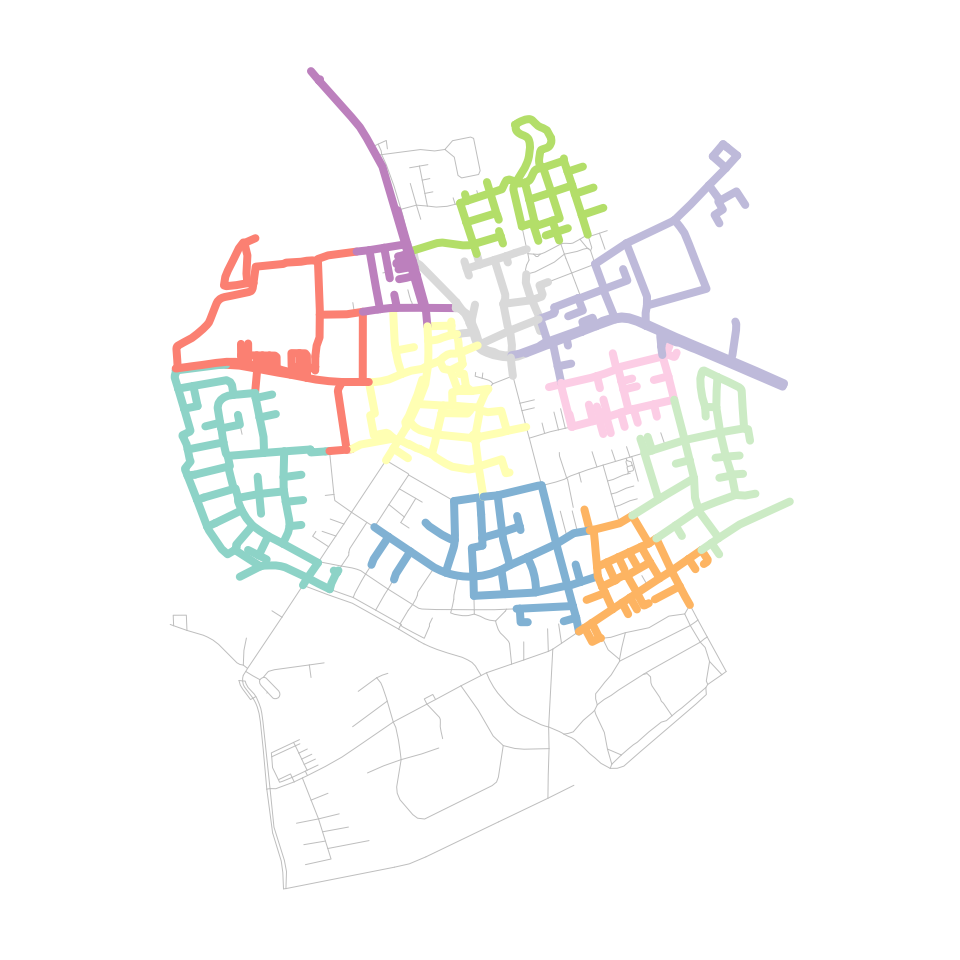
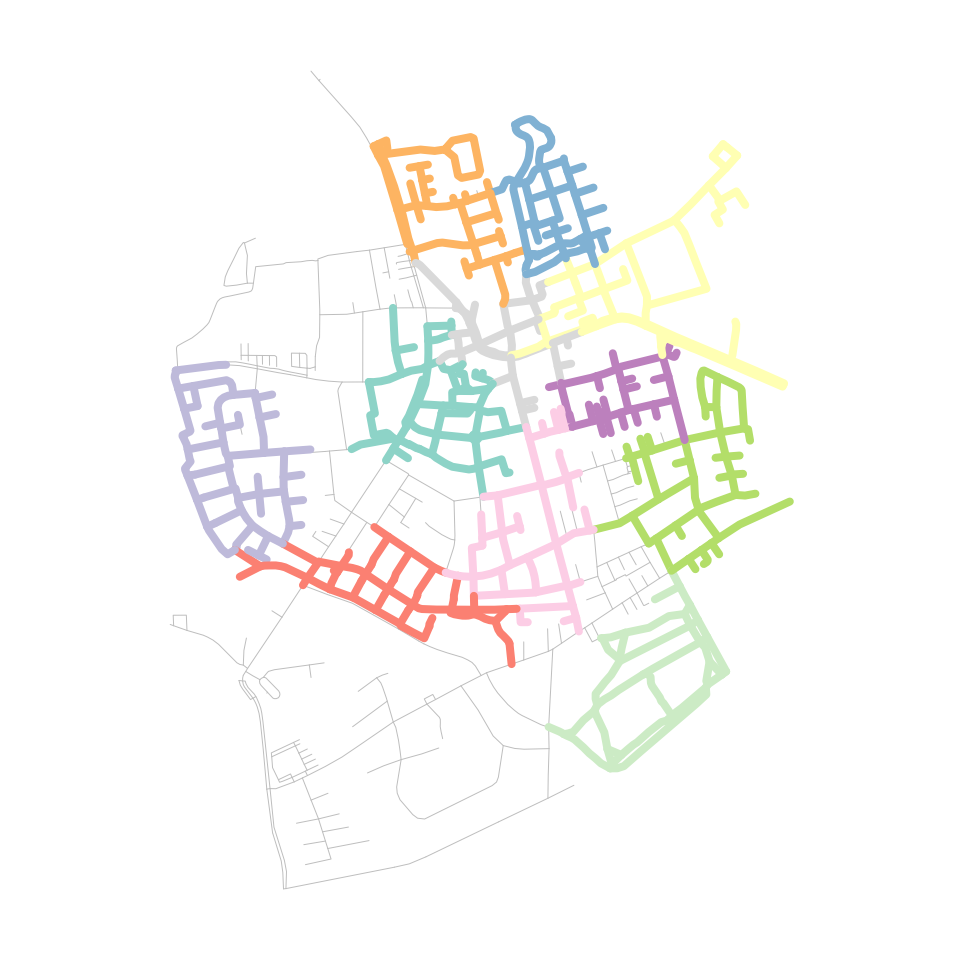
Built site for sfnetworks: 0.6.2@d3374b5

Changed region(s): [[0.1562, 0.125, 0.8438, 0.8125], [0.3438, 0.0938, 0.375, 0.125], [0.3125, 0.0625, 0.3438, 0.0938]]

diff --git a/articles/sfn02_preprocess_clean.html b/articles/sfn02_preprocess_clean.html
@@ -461,12 +461,12 @@ different combination techniques when simplifying the network.</p>
 <span><span class="co">#&gt; # Bounding box:  xmin: 0 ymin: -1 xmax: 7 ymax: 3</span></span>
 <span><span class="co">#&gt;    from    to              x  flow type    foo bar  </span></span>
 <span><span class="co">#&gt;   &lt;int&gt; &lt;int&gt;   &lt;LINESTRING&gt; &lt;int&gt; &lt;chr&gt; &lt;int&gt; &lt;chr&gt;</span></span>
-<span><span class="co">#&gt; 1    10     9 (6 1.2, 5.8 1)     5 path      6 w    </span></span>
-<span><span class="co">#&gt; 2    11    10 (6.2 1, 6 1.2)     5 path      7 g    </span></span>
-<span><span class="co">#&gt; 3     9    12 (5.8 1, 6 0.8)     7 path     14 n    </span></span>
-<span><span class="co">#&gt; 4    12    11 (6 0.8, 6.2 1)     6 path     10 v    </span></span>
-<span><span class="co">#&gt; 5    11    15   (6.2 1, 7 1)     8 path      9 o    </span></span>
-<span><span class="co">#&gt; 6    10    13   (6 1.2, 6 2)     8 path     12 q    </span></span>
+<span><span class="co">#&gt; 1    10     9 (6 1.2, 5.8 1)     7 path      9 z    </span></span>
+<span><span class="co">#&gt; 2    11    10 (6.2 1, 6 1.2)     7 path     10 j    </span></span>
+<span><span class="co">#&gt; 3     9    12 (5.8 1, 6 0.8)     8 path      2 s    </span></span>
+<span><span class="co">#&gt; 4    12    11 (6 0.8, 6.2 1)    10 path     14 e    </span></span>
+<span><span class="co">#&gt; 5    11    15   (6.2 1, 7 1)    10 path      8 x    </span></span>
+<span><span class="co">#&gt; 6    10    13   (6 1.2, 6 2)     7 path      6 r    </span></span>
 <span><span class="co">#&gt; # … with 9 more rows</span></span>
 <span><span class="co">#&gt; #</span></span>
 <span><span class="co">#&gt; # Node Data:     15 × 1</span></span>
@@ -494,8 +494,8 @@ different combination techniques when simplifying the network.</p>
 <span><span class="co">#&gt; # A tibble: 2 × 7</span></span>
 <span><span class="co">#&gt;    from    to               x  flow type    foo bar  </span></span>
 <span><span class="co">#&gt;   &lt;int&gt; &lt;int&gt;    &lt;LINESTRING&gt; &lt;int&gt; &lt;chr&gt; &lt;int&gt; &lt;chr&gt;</span></span>
-<span><span class="co">#&gt; 1     6     7      (4 3, 4 2)     8 path     13 r    </span></span>
-<span><span class="co">#&gt; 2     6     7 (4 3, 5 2, 4 2)     7 road      2 e</span></span></code></pre>
+<span><span class="co">#&gt; 1     6     7      (4 3, 4 2)     4 path      5 y    </span></span>
+<span><span class="co">#&gt; 2     6     7 (4 3, 5 2, 4 2)     2 road      1 p</span></span></code></pre>
 <div class="sourceCode" id="cb10"><pre class="downlit sourceCode r">
 <code class="sourceCode R"><span><span class="co"># Define how we want to combine the attributes.</span></span>
 <span><span class="co"># For the flows:</span></span>
@@ -526,7 +526,7 @@ different combination techniques when simplifying the network.</p>
 <span><span class="co">#&gt; # A tibble: 1 × 6</span></span>
 <span><span class="co">#&gt;    from    to            x  flow type    .tidygraph_edge_index</span></span>
 <span><span class="co">#&gt;   &lt;int&gt; &lt;int&gt; &lt;LINESTRING&gt; &lt;dbl&gt; &lt;chr&gt;   &lt;list&gt;               </span></span>
-<span><span class="co">#&gt; 1     6     7   (4 3, 4 2)    15 unknown &lt;int [2]&gt;</span></span></code></pre>
+<span><span class="co">#&gt; 1     6     7   (4 3, 4 2)     6 unknown &lt;int [2]&gt;</span></span></code></pre>
 <div class="sourceCode" id="cb11"><pre class="downlit sourceCode r">
 <code class="sourceCode R"><span><span class="fu"><a href="https://rdrr.io/r/graphics/plot.default.html" class="external-link">plot</a></span><span class="op">(</span><span class="fu"><a href="https://r-spatial.github.io/sf/reference/st_geometry.html" class="external-link">st_geometry</a></span><span class="op">(</span><span class="va">net</span>, <span class="st">"edges"</span><span class="op">)</span>, col <span class="op">=</span> <span class="fu">edge_colors</span><span class="op">(</span><span class="va">net</span><span class="op">)</span>, lwd <span class="op">=</span> <span class="fl">4</span><span class="op">)</span></span>
 <span><span class="fu"><a href="https://rdrr.io/r/graphics/plot.default.html" class="external-link">plot</a></span><span class="op">(</span><span class="fu"><a href="https://r-spatial.github.io/sf/reference/st_geometry.html" class="external-link">st_geometry</a></span><span class="op">(</span><span class="va">net</span>, <span class="st">"nodes"</span><span class="op">)</span>, pch <span class="op">=</span> <span class="fl">20</span>, cex <span class="op">=</span> <span class="fl">1.5</span>, add <span class="op">=</span> <span class="cn">TRUE</span><span class="op">)</span></span>
@@ -659,10 +659,10 @@ columns are not attributes!</p>
 <span><span class="co">#&gt; # A tibble: 4 × 6</span></span>
 <span><span class="co">#&gt;    from    to               x  flow type    .tidygraph_edge_index</span></span>
 <span><span class="co">#&gt;   &lt;int&gt; &lt;int&gt;    &lt;LINESTRING&gt; &lt;dbl&gt; &lt;chr&gt;                   &lt;int&gt;</span></span>
-<span><span class="co">#&gt; 1     1     2 (0 1, 1 1, 2 1)    10 road                        1</span></span>
-<span><span class="co">#&gt; 2     2     3      (2 1, 3 1)     5 road                        2</span></span>
-<span><span class="co">#&gt; 3     8     9      (4 3, 4 2)    15 unknown                     5</span></span>
-<span><span class="co">#&gt; 4     9     4      (4 2, 4 1)     2 road                        6</span></span></code></pre>
+<span><span class="co">#&gt; 1     1     2 (0 1, 1 1, 2 1)     6 road                        1</span></span>
+<span><span class="co">#&gt; 2     2     3      (2 1, 3 1)     9 road                        2</span></span>
+<span><span class="co">#&gt; 3     8     9      (4 3, 4 2)     6 unknown                     5</span></span>
+<span><span class="co">#&gt; 4     9     4      (4 2, 4 1)    10 road                        6</span></span></code></pre>
 <div class="sourceCode" id="cb15"><pre class="downlit sourceCode r">
 <code class="sourceCode R"><span></span>
 <span><span class="co"># Define how we want to combine the attributes.</span></span>
@@ -693,7 +693,7 @@ columns are not attributes!</p>
 <span><span class="co">#&gt;    from    to  flow type    .tidygraph_edge_index                    x</span></span>
 <span><span class="co">#&gt;   &lt;int&gt; &lt;int&gt; &lt;dbl&gt; &lt;chr&gt;   &lt;list&gt;                        &lt;LINESTRING&gt;</span></span>
 <span><span class="co">#&gt; 1     1     2    15 road    &lt;int [2]&gt;             (0 1, 1 1, 2 1, 3 1)</span></span>
-<span><span class="co">#&gt; 2     7     3    17 unknown &lt;int [2]&gt;                  (4 3, 4 2, 4 1)</span></span></code></pre>
+<span><span class="co">#&gt; 2     7     3    16 unknown &lt;int [2]&gt;                  (4 3, 4 2, 4 1)</span></span></code></pre>
 <p>Secondly, it is possible to only remove those pseudo nodes for which
 attributes among their incident edges are equal. To do this, set
 <code>require_equal = TRUE</code>. Optionally, you can provide a list of
@@ -818,8 +818,8 @@ for the sake of completeness, we will still show it:</p>
 <span><span class="co">#&gt; # Bounding box:  xmin: 0 ymin: -1 xmax: 7 ymax: 3</span></span>
 <span><span class="co">#&gt;    from    to  flow type  .tidygraph_edge_index            x</span></span>
 <span><span class="co">#&gt;   &lt;int&gt; &lt;int&gt; &lt;dbl&gt; &lt;chr&gt; &lt;list&gt;                &lt;LINESTRING&gt;</span></span>
-<span><span class="co">#&gt; 1     2     3     5 road  &lt;int [1]&gt;               (3 1, 4 1)</span></span>
-<span><span class="co">#&gt; 2     3     4     4 path  &lt;int [1]&gt;             (4 1, 5.8 1)</span></span>
+<span><span class="co">#&gt; 1     2     3     9 road  &lt;int [1]&gt;               (3 1, 4 1)</span></span>
+<span><span class="co">#&gt; 2     3     4     2 path  &lt;int [1]&gt;             (4 1, 5.8 1)</span></span>
 <span><span class="co">#&gt; 3     5     2     3 road  &lt;int [1]&gt;               (3 2, 3 1)</span></span>
 <span><span class="co">#&gt; # … with 11 more rows</span></span></code></pre>
 <p>The combination of the cluster index and the component index can now
@@ -888,10 +888,10 @@ columns are not attributes!</p>
 <span><span class="co">#&gt; # A tibble: 4 × 5</span></span>
 <span><span class="co">#&gt;         x .tidygraph_node_index   cls   cmp is_priority</span></span>
 <span><span class="co">#&gt;   &lt;POINT&gt;                 &lt;int&gt; &lt;int&gt; &lt;int&gt; &lt;lgl&gt;      </span></span>
-<span><span class="co">#&gt; 1 (5.8 1)                     5     4     1 FALSE      </span></span>
-<span><span class="co">#&gt; 2 (6 0.8)                    11     4     1 TRUE       </span></span>
-<span><span class="co">#&gt; 3 (6 1.2)                    12     4     1 FALSE      </span></span>
-<span><span class="co">#&gt; 4 (6.2 1)                    14     4     1 FALSE</span></span></code></pre>
+<span><span class="co">#&gt; 1 (5.8 1)                     5     4     1 TRUE       </span></span>
+<span><span class="co">#&gt; 2 (6 0.8)                    11     4     1 FALSE      </span></span>
+<span><span class="co">#&gt; 3 (6 1.2)                    12     4     1 TRUE       </span></span>
+<span><span class="co">#&gt; 4 (6.2 1)                    14     4     1 TRUE</span></span></code></pre>
 <div class="sourceCode" id="cb22"><pre class="downlit sourceCode r">
 <code class="sourceCode R"><span><span class="co"># Define how we want to combine the attributes.</span></span>
 <span><span class="co"># For the boolean is_priority variable:</span></span>

diff --git a/articles/sfn05_morphers.html b/articles/sfn05_morphers.html
@@ -191,8 +191,8 @@ is assigned to, and automatically merge those changes back into the
 <span><span class="co">#&gt;    from    to name                  type                          geometry group</span></span>
 <span><span class="co">#&gt;   &lt;int&gt; &lt;int&gt; &lt;chr&gt;                 &lt;fct&gt;                 &lt;LINESTRING [m]&gt; &lt;int&gt;</span></span>
 <span><span class="co">#&gt; 1     1     2 Havixbecker Strasse   residential (4151491 3207923, 4151474…     9</span></span>
-<span><span class="co">#&gt; 2     3     4 Pienersallee          secondary   (4151398 3207777, 4151390…     2</span></span>
-<span><span class="co">#&gt; 3     5     6 Schulte-Bernd-Strasse residential (4151408 3207539, 4151417…     2</span></span>
+<span><span class="co">#&gt; 2     3     4 Pienersallee          secondary   (4151398 3207777, 4151390…     1</span></span>
+<span><span class="co">#&gt; 3     5     6 Schulte-Bernd-Strasse residential (4151408 3207539, 4151417…     1</span></span>
 <span><span class="co">#&gt; # … with 848 more rows</span></span></code></pre>
 <div class="sourceCode" id="cb3"><pre class="downlit sourceCode r">
 <code class="sourceCode R"><span><span class="co"># The algorithm detected 34 communities.</span></span>
@@ -201,7 +201,7 @@ is assigned to, and automatically merge those changes back into the
 <span>  <span class="fu"><a href="https://dplyr.tidyverse.org/reference/pull.html" class="external-link">pull</a></span><span class="op">(</span><span class="va">group</span><span class="op">)</span> <span class="op"><a href="https://magrittr.tidyverse.org/reference/pipe.html" class="external-link">%&gt;%</a></span></span>
 <span>  <span class="fu"><a href="https://rdrr.io/r/base/unique.html" class="external-link">unique</a></span><span class="op">(</span><span class="op">)</span> <span class="op"><a href="https://magrittr.tidyverse.org/reference/pipe.html" class="external-link">%&gt;%</a></span></span>
 <span>  <span class="fu"><a href="https://rdrr.io/r/base/length.html" class="external-link">length</a></span><span class="op">(</span><span class="op">)</span></span>
-<span><span class="co">#&gt; [1] 35</span></span></code></pre></div>
+<span><span class="co">#&gt; [1] 34</span></span></code></pre></div>
 <p>In all grouping functions in <code>tidygraph</code>, the group index
 <code>1</code> belongs the largest group, the index <code>2</code> to
 the second largest group, et cetera. Lets plot only the first third of
@@ -643,8 +643,8 @@ to the geometry of the first set member.</p>
 <span><span class="co">#&gt; # A tibble: 2 × 6</span></span>
 <span><span class="co">#&gt;    from    to name         type                                   geometry  flow</span></span>
 <span><span class="co">#&gt;   &lt;int&gt; &lt;int&gt; &lt;chr&gt;        &lt;fct&gt;                          &lt;LINESTRING [m]&gt; &lt;int&gt;</span></span>
-<span><span class="co">#&gt; 1   118   119 NA           service (4150716 3207080, 4150715 3207108, 415…     4</span></span>
-<span><span class="co">#&gt; 2   118   119 Pienersallee service      (4150716 3207080, 4150752 3207067)    79</span></span></code></pre>
+<span><span class="co">#&gt; 1   118   119 NA           service (4150716 3207080, 4150715 3207108, 415…    57</span></span>
+<span><span class="co">#&gt; 2   118   119 Pienersallee service      (4150716 3207080, 4150752 3207067)    76</span></span></code></pre>
 <div class="sourceCode" id="cb16"><pre class="downlit sourceCode r">
 <code class="sourceCode R"><span><span class="co"># Simplify the network.</span></span>
 <span><span class="co"># We summarise the flow attribute by taking the sum of the merged edge flows.</span></span>
@@ -668,7 +668,7 @@ to the geometry of the first set member.</p>
 <span><span class="co">#&gt; # A tibble: 1 × 7</span></span>
 <span><span class="co">#&gt;    from    to name  type                                  geometry  flow .tidy…¹</span></span>
 <span><span class="co">#&gt;   &lt;int&gt; &lt;int&gt; &lt;chr&gt; &lt;fct&gt;                         &lt;LINESTRING [m]&gt; &lt;dbl&gt; &lt;list&gt; </span></span>
-<span><span class="co">#&gt; 1   118   119 NA    service (4150716 3207080, 4150715 3207108, 41…    83 &lt;int&gt;  </span></span>
+<span><span class="co">#&gt; 1   118   119 NA    service (4150716 3207080, 4150715 3207108, 41…   133 &lt;int&gt;  </span></span>
 <span><span class="co">#&gt; # … with abbreviated variable name ¹.tidygraph_edge_index</span></span></code></pre>
 </div>
 <div class="section level3">
@@ -802,12 +802,12 @@ example just to get an idea of how this would work:</p>
 <span><span class="co">#&gt; # Bounding box:  xmin: 4150707 ymin: 3206375 xmax: 4152367 ymax: 3208565</span></span>
 <span><span class="co">#&gt;            geometry building post_code</span></span>
 <span><span class="co">#&gt;         &lt;POINT [m]&gt; &lt;lgl&gt;        &lt;dbl&gt;</span></span>
-<span><span class="co">#&gt; 1 (4151491 3207923) TRUE          1020</span></span>
-<span><span class="co">#&gt; 2 (4151474 3207946) TRUE          1020</span></span>
-<span><span class="co">#&gt; 3 (4151398 3207777) TRUE          1020</span></span>
+<span><span class="co">#&gt; 1 (4151491 3207923) FALSE           NA</span></span>
+<span><span class="co">#&gt; 2 (4151474 3207946) FALSE           NA</span></span>
+<span><span class="co">#&gt; 3 (4151398 3207777) FALSE           NA</span></span>
 <span><span class="co">#&gt; 4 (4151370 3207673) FALSE           NA</span></span>
 <span><span class="co">#&gt; 5 (4151408 3207539) TRUE          1020</span></span>
-<span><span class="co">#&gt; 6 (4151421 3207592) FALSE           NA</span></span>
+<span><span class="co">#&gt; 6 (4151421 3207592) TRUE          1020</span></span>
 <span><span class="co">#&gt; # … with 695 more rows</span></span>
 <span><span class="co">#&gt; #</span></span>
 <span><span class="co">#&gt; # Edge Data:     851 × 5</span></span>
@@ -873,9 +873,9 @@ requires a geographic CRS for that.</p>
 <span><span class="co">#&gt; # Bounding box:  xmin: 4150707 ymin: 3206375 xmax: 4152367 ymax: 3208565</span></span>
 <span><span class="co">#&gt;            geometry building</span></span>
 <span><span class="co">#&gt;         &lt;POINT [m]&gt; &lt;lgl&gt;   </span></span>
-<span><span class="co">#&gt; 1 (4151491 3207923) TRUE    </span></span>
-<span><span class="co">#&gt; 2 (4151474 3207946) TRUE    </span></span>
-<span><span class="co">#&gt; 3 (4151398 3207777) TRUE    </span></span>
+<span><span class="co">#&gt; 1 (4151491 3207923) FALSE   </span></span>
+<span><span class="co">#&gt; 2 (4151474 3207946) FALSE   </span></span>
+<span><span class="co">#&gt; 3 (4151398 3207777) FALSE   </span></span>
 <span><span class="co">#&gt; # … with 698 more rows</span></span></code></pre>
 </div>
 </div>
